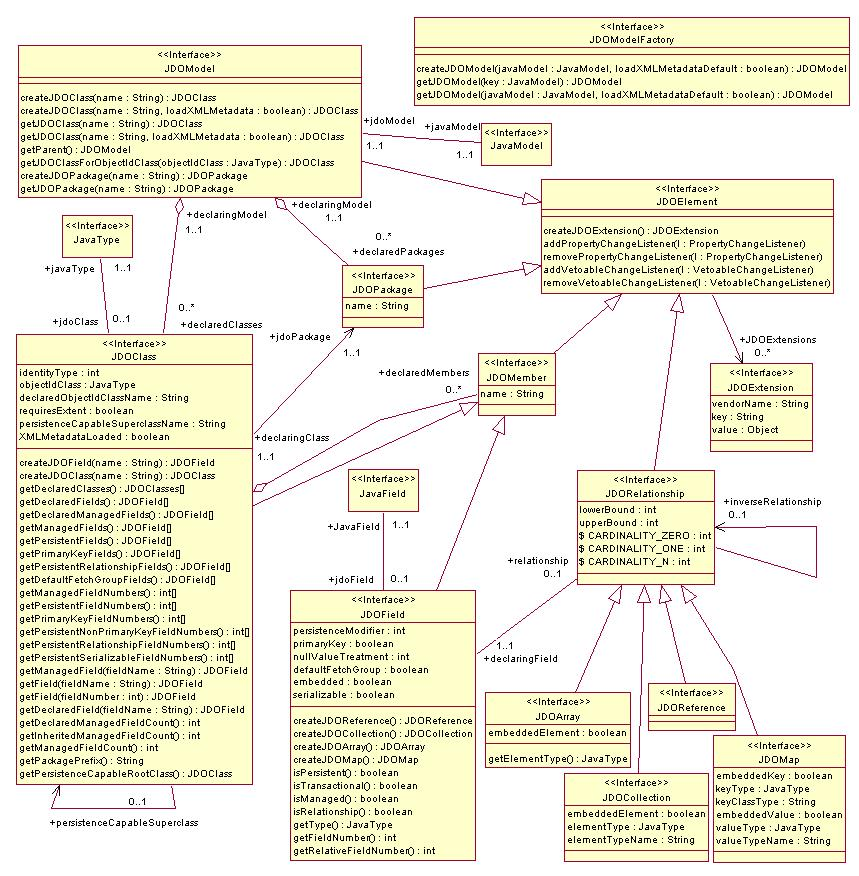
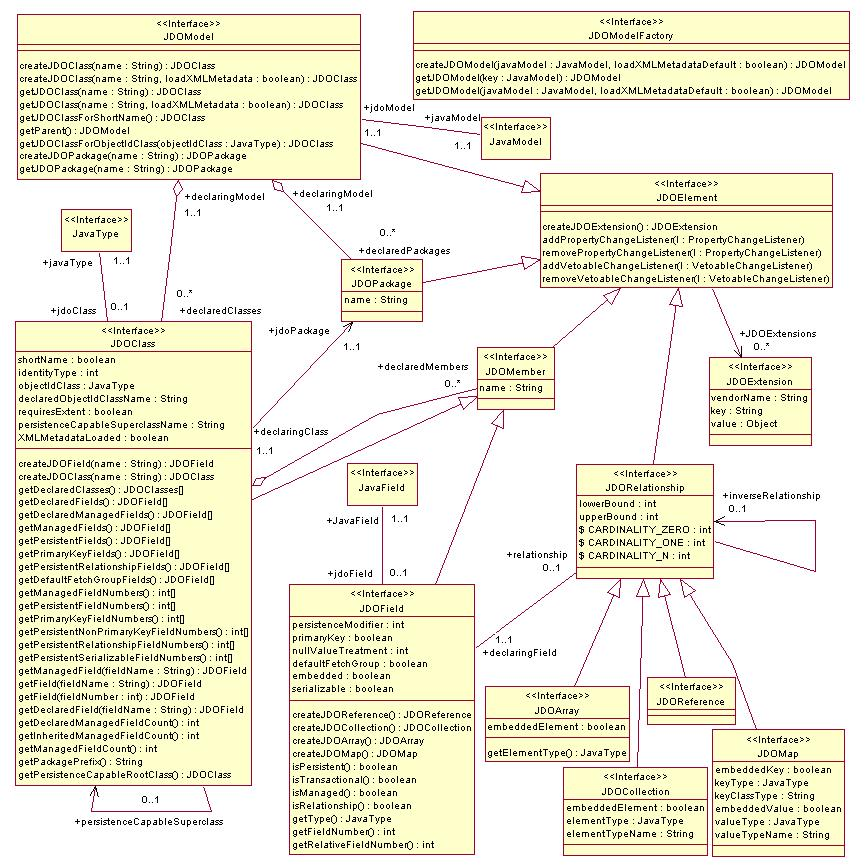
Add support for short names in JDOModel

diff --git a/core20/src/java/org/apache/jdo/impl/model/jdo/caching/JDOModelImplCaching.java b/core20/src/java/org/apache/jdo/impl/model/jdo/caching/JDOModelImplCaching.java
@@ -26,6 +26,8 @@ import org.apache.jdo.model.jdo.JDOClass;
 import org.apache.jdo.impl.model.jdo.JDOModelImplDynamic;
 import org.apache.jdo.model.java.JavaType;
 
+import org.apache.jdo.util.StringHelper;
+
 /**
  * A JDOModel instance bundles a number of JDOClass instances used by an 
  * application. It provides factory methods to create and retrieve JDOClass 
@@ -40,9 +42,15 @@ import org.apache.jdo.model.java.JavaType;
  *
  * @author Michael Bouschen
  * @since 1.1
- * @version 1.1
+ * @version 2.0
  */
 public class JDOModelImplCaching extends JDOModelImplDynamic {
+
+    /**
+     * This is a mapping from short names to JDOClass instances. Key is the
+     * JDOClass short name, value is the corresponding JDOClass instance.  
+     */
+    private Map jdoClassesForShortNames = new HashMap();
 
     /** 
      * This is a mapping from ObjectId classes to its JDOClass instances.
@@ -50,7 +58,7 @@ public class JDOModelImplCaching extends JDOModelImplDynamic {
      * corresponding JDOClass instance. Note, in the case of inheritance
      * the top most persistence-capable class is stored.
      */
-    private Map jdoClassesByObjectIdClasses = new HashMap();
+    private Map jdoClassesForObjectIdClasses = new HashMap();
 
     /** 
      * Set of fully qualified names of classes known to be 
@@ -68,6 +76,43 @@ public class JDOModelImplCaching extends JDOModelImplDynamic {
     }
 
     /**
+     * The method returns the JDOClass instance for the specified short name
+     * (see {@link JDOClass#getShortName()}) or <code>null</code> if it cannot
+     * find a JDOClass instance with the specified short name. 
+     * <p>
+     * The method searches the list of JDOClasses currently managed by this
+     * JDOModel instance. It does not attempt to load any metadata if it
+     * cannot find a JDOClass instance with the specified short name. The
+     * metadata for a JDOClass returned by this method must have been loaded
+     * before by any of the methods
+     * {@link #createJDOClass(String className)},
+     * {@link #createJDOClass(String className, boolean loadXMLMetadataDefault)},
+     * {@link #getJDOClass(String className)}, or
+     * {@link #getJDOClass(String className, boolean loadXMLMetadataDefault)}.
+     * @param shortName the short name of the JDOClass instance to be returned
+     * @return a JDOClass instance for the specified short name 
+     * or <code>null</code> if not present
+     */
+    public synchronized JDOClass getJDOClassForShortName(String shortName) {
+        if (StringHelper.isEmpty(shortName))
+            return null;
+
+        // First check the cache
+        JDOClass jdoClass = 
+            (JDOClass)jdoClassesForShortNames.get(shortName);
+        if (jdoClass == null) {
+            // not found in the cache => call super
+            jdoClass = super.getJDOClassForShortName(shortName);
+            if (jdoClass != null) {
+                // found => update the cache
+                jdoClassesForShortNames.put(shortName, jdoClass);
+            }
+        }
+        
+        return jdoClass;
+    }
+
+    /**
      * This method returns the JDOClass instance that defines the specified type
      * as its objectId class. In the case of an inheritance hierarchy it returns 
      * the top most persistence-capable class of the hierarchy (see 
@@ -82,16 +127,16 @@ public class JDOModelImplCaching extends JDOModelImplDynamic {
         if (objectIdClass == null)
             return null;
 
-        synchronized (jdoClassesByObjectIdClasses) {
+        synchronized (jdoClassesForObjectIdClasses) {
             // First check the cache
             JDOClass jdoClass = 
-                (JDOClass)jdoClassesByObjectIdClasses.get(objectIdClass);
+                (JDOClass)jdoClassesForObjectIdClasses.get(objectIdClass);
             if (jdoClass == null) {
                 // not found in the cache => call super
                 jdoClass = super.getJDOClassForObjectIdClass(objectIdClass);
                 if (jdoClass != null) {
                     // found => update the cache
-                    jdoClassesByObjectIdClasses.put(objectIdClass, jdoClass);
+                    jdoClassesForObjectIdClasses.put(objectIdClass, jdoClass);
                 }
             }
             

diff --git a/core20/src/java/org/apache/jdo/impl/model/jdo/JDOModelImplDynamic.java b/core20/src/java/org/apache/jdo/impl/model/jdo/JDOModelImplDynamic.java
@@ -47,7 +47,9 @@ import org.apache.jdo.model.jdo.JDOClass;
 import org.apache.jdo.model.jdo.JDOModel;
 import org.apache.jdo.model.jdo.JDOModelFactory;
 import org.apache.jdo.model.jdo.JDOPackage;
+
 import org.apache.jdo.util.I18NHelper;
+import org.apache.jdo.util.StringHelper;
 
 import org.xml.sax.SAXException;
 import org.xml.sax.InputSource;
@@ -88,7 +90,7 @@ import org.xml.sax.InputSource;
  *
  * @author Michael Bouschen
  * @since 1.1
- * @version 1.1
+ * @version 2.0
  */
 public class JDOModelImplDynamic extends JDOElementImpl implements JDOModel {
 
@@ -190,7 +192,7 @@ public class JDOModelImplDynamic extends JDOElementImpl implements JDOModel {
      * the existing instance is returned. Otherwise, it creates a new JDOClass 
      * instance, sets its declaringModel and returns the new instance.
      * <p>
-     * Whether this method reads XML metatdata or not is deteremined at
+     * Whether this method reads XML metatdata or not is determined at
      * JDOModel creation time (see flag <code>loadXMLMetadataDefault</code> 
      * in {@link JDOModelFactory#getJDOModel(JavaModel javaModel, boolean
      * loadXMLMetadataDefault)}). Invoking this method is method is equivalent
@@ -241,9 +243,9 @@ public class JDOModelImplDynamic extends JDOElementImpl implements JDOModel {
      * qualified class name if present. The method returns <code>null</code> 
      * if it cannot find a JDOClass instance for the specified name. 
      * <p>
-     * Whether this method reads XML metatdata or not is deteremined at
+     * Whether this method reads XML metatdata or not is determined at
      * JDOModel creation time (see flag <code>loadXMLMetadataDefault</code> 
-     * in {@link JDOModelFactory#getJDOModel(JavaModel javaModel, boolean
+     * in {@link JDOModelFactory#getJDOModel(JavaModel javaModel, boolean 
      * loadXMLMetadataDefault)}). Invoking this method is method is equivalent
      * to <code>createJDOClass(className, loadXMLMetadataDefault)</code>.
      * @param className the fully qualified class name of the JDOClass
@@ -301,6 +303,38 @@ public class JDOModelImplDynamic extends JDOElementImpl implements JDOModel {
         }
 
         return jdoClass;
+    }
+
+    /**
+     * The method returns the JDOClass instance for the specified short name
+     * (see {@link JDOClass#getShortName()}) or <code>null</code> if it cannot
+     * find a JDOClass instance with the specified short name. 
+     * <p>
+     * The method searches the list of JDOClasses currently managed by this
+     * JDOModel instance. It does not attempt to load any metadata if it
+     * cannot find a JDOClass instance with the specified short name. The
+     * metadata for a JDOClass returned by this method must have been loaded
+     * before by any of the methods
+     * {@link #createJDOClass(String className)},
+     * {@link #createJDOClass(String className, boolean loadXMLMetadataDefault)},
+     * {@link #getJDOClass(String className)}, or
+     * {@link #getJDOClass(String className, boolean loadXMLMetadataDefault)}.
+     * @param shortName the short name of the JDOClass instance to be returned
+     * @return a JDOClass instance for the specified short name 
+     * or <code>null</code> if not present
+     */
+    public synchronized JDOClass getJDOClassForShortName(String shortName) {
+        if (StringHelper.isEmpty(shortName))
+            return null;
+
+        for (Iterator i = jdoClasses.values().iterator(); i.hasNext();) {
+            JDOClass jdoClass = (JDOClass)i.next();
+            if (shortName.equals(jdoClass.getShortName()))
+                // found => return
+                return jdoClass;
+        }
+
+        return null;
     }
 
     /**

diff --git a/core20/src/java/org/apache/jdo/model/jdo/JDOModel.java b/core20/src/java/org/apache/jdo/model/jdo/JDOModel.java
@@ -29,6 +29,7 @@ import org.apache.jdo.model.java.JavaType;
  * name by different JDOModel instances.
  *
  * @author Michael Bouschen
+ * @version 2.0
  */
 public interface JDOModel
     extends JDOElement
@@ -70,7 +71,7 @@ public interface JDOModel
      * the existing instance is returned. Otherwise, it creates a new JDOClass 
      * instance, sets its declaringModel and returns the new instance.
      * <p>
-     * Whether this method reads XML metatdata or not is deteremined at
+     * Whether this method reads XML metatdata or not is determined at
      * JDOModel creation time (see flag <code>loadXMLMetadataDefault</code> 
      * in {@link JDOModelFactory#getJDOModel(JavaModel javaModel, boolean
      * loadXMLMetadataDefault)}). Invoking this method is method is equivalent
@@ -105,7 +106,7 @@ public interface JDOModel
      * qualified class name if present. The method returns <code>null</code> 
      * if it cannot find a JDOClass instance for the specified name. 
      * <p>
-     * Whether this method reads XML metatdata or not is deteremined at
+     * Whether this method reads XML metatdata or not is determined at
      * JDOModel creation time (see flag <code>loadXMLMetadataDefault</code> 
      * in {@link JDOModelFactory#getJDOModel(JavaModel javaModel, boolean
      * loadXMLMetadataDefault)}). Invoking this method is method is equivalent
@@ -130,6 +131,26 @@ public interface JDOModel
      * or <code>null</code> if not present
      */
     public JDOClass getJDOClass(String className, boolean loadXMLMetadata);
+
+    /**
+     * The method returns the JDOClass instance for the specified short name
+     * (see {@link JDOClass#getShortName()}) or <code>null</code> if it cannot
+     * find a JDOClass instance with the specified short name. 
+     * <p>
+     * The method searches the list of JDOClasses currently managed by this
+     * JDOModel instance. It does not attempt to load any metadata if it
+     * cannot find a JDOClass instance with the specified short name. The
+     * metadata for a JDOClass returned by this method must have been loaded
+     * before by any of the methods
+     * {@link #createJDOClass(String className)},
+     * {@link #createJDOClass(String className, boolean loadXMLMetadataDefault)},
+     * {@link #getJDOClass(String className)}, or
+     * {@link #getJDOClass(String className, boolean loadXMLMetadataDefault)}.
+     * @param shortName the short name of the JDOClass instance to be returned
+     * @return a JDOClass instance for the specified short name 
+     * or <code>null</code> if not present
+     */
+    public JDOClass getJDOClassForShortName(String shortName);
 
     /**
      * Returns the collection of JDOClass instances declared by this JDOModel 

diff --git a/core20/src/java/org/apache/jdo/impl/model/jdo/JDOClassImplDynamic.java b/core20/src/java/org/apache/jdo/impl/model/jdo/JDOClassImplDynamic.java
@@ -32,6 +32,7 @@ import org.apache.jdo.model.jdo.JDOModel;
 import org.apache.jdo.model.jdo.JDOPackage;
 
 import org.apache.jdo.util.I18NHelper;
+import org.apache.jdo.util.StringHelper;
 
 /**
  * An instance of this class represents the JDO metadata of a persistence 
@@ -47,12 +48,15 @@ import org.apache.jdo.util.I18NHelper;
  *
  * @author Michael Bouschen
  * @since 1.1
- * @version 1.1
+ * @version 2.0
  */
 public class JDOClassImplDynamic
     extends JDOMemberImpl
     implements JDOClass
 {
+    /** Property shortName. It defaults to the unqualified class name. */
+    protected String shortName;
+
     /** Property identityType. Default see {@link #getIdentityType}. */
     protected int identityType = JDOIdentityType.UNSPECIFIED;
 
@@ -102,6 +106,28 @@ public class JDOClassImplDynamic
     protected final static I18NHelper msg =  
         I18NHelper.getInstance(JDOClassImplDynamic.class);
 
+    /** 
+     * Get the short name of this JDOClass. The short name defaults to the
+     * unqualified class name, if not explicitly set by method
+     * {@link #setShortName(String shortName)}.
+     * @return the short name of this JDOClass.
+     */
+    public String getShortName() {
+        if (shortName != null)
+            // return short name, if explicitly set by the setter
+            return shortName;
+
+        return StringHelper.getShortClassName(getName());
+    }
+    
+    /** 
+     * Set the short name of this JDOClass.
+     * @param shortName the short name.
+     */
+    public void setShortName(String shortName) {
+        this.shortName = shortName;
+    }
+    
     /** 
      * Get the JDO identity type of this JDOClass.
      * The identity type of the least-derived persistence-capable class defines

diff --git a/core20/src/java/org/apache/jdo/impl/model/jdo/caching/JDOClassImplCaching.java b/core20/src/java/org/apache/jdo/impl/model/jdo/caching/JDOClassImplCaching.java
@@ -32,7 +32,7 @@ import org.apache.jdo.impl.model.jdo.JDOClassImplDynamic;
  *
  * @author Michael Bouschen
  * @since 1.1
- * @version 1.1
+ * @version 2.0
  */
 public class JDOClassImplCaching extends JDOClassImplDynamic
 {
@@ -93,6 +93,19 @@ public class JDOClassImplCaching extends JDOClassImplDynamic
 
     /** Flag indicating wthere field numbers are calculated already. */
     private boolean fieldNumbersCalculated = false;
+
+     /** 
+     * Get the short name of this JDOClass. The short name defaults to the
+     * unqualified class name, if not explicitly set by method
+     * {@link #setShortName(String shortName)}.
+     * @return the short name of this JDOClass.
+     */
+    public String getShortName() {
+        if (shortName == null) {
+            shortName = super.getShortName();
+        }
+        return shortName;
+    }
 
     /** 
      * Get the JDO identity type of this JDOClass.

diff --git a/core20/src/java/org/apache/jdo/model/jdo/JDOClass.java b/core20/src/java/org/apache/jdo/model/jdo/JDOClass.java
@@ -25,11 +25,27 @@ import org.apache.jdo.model.java.JavaType;
  * class.
  *
  * @author Michael Bouschen
- * @version 1.1
+ * @version 2.0
  */
 public interface JDOClass 
     extends JDOMember 
 {
+    /** 
+     * Get the short name of this JDOClass. The short name defaults to the
+     * unqualified class name, if not explicitly set by method
+     * {@link #setShortName(String shortName)}.
+     * @return the short name of this JDOClass.
+     */
+    public String getShortName();
+    
+    /** 
+     * Set the short name of this JDOClass.
+     * @param shortName the short name.
+     * @exception ModelException if impossible
+     */
+    public void setShortName(String shortName)
+        throws ModelException;
+
     /** 
      * Get the JDO identity type of this JDOClass.
      * The identity type of the least-derived persistence-capable class defines
